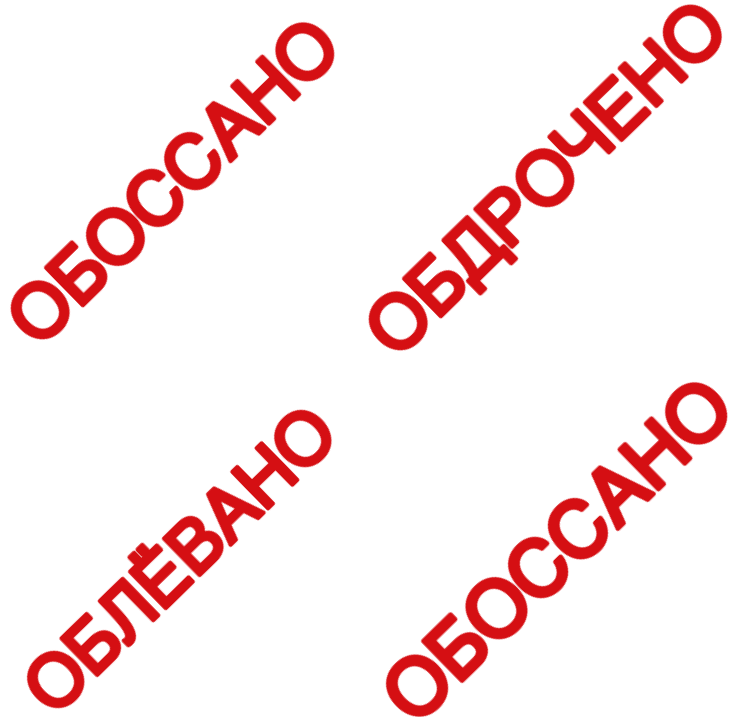
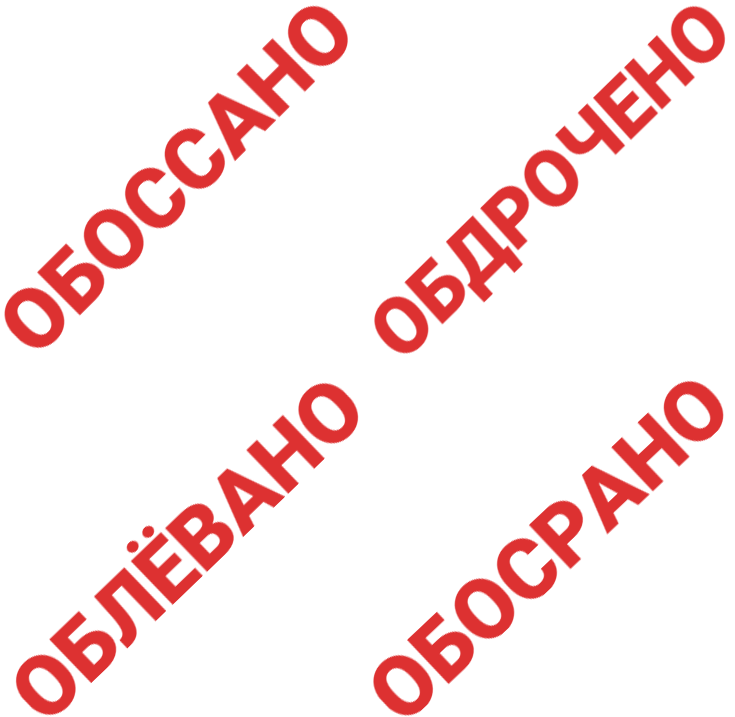
h j booru + h j m #23 fix + database fix Co-Authored-By: ugliestie <ugliestie@proton.me>

diff --git a/database/requests.py b/database/requests.py
@@ -20,7 +20,7 @@ async def check_group(group_id: int) -> None:
             session.add(AutomaticSettings(group_id=group_id))
             await session.commit()
 
-async def get_commands_settings(group_id: int) -> tuple[bool, bool, bool, bool, bool, bool]:
+async def get_commands_settings(group_id: int) -> tuple[bool, bool, bool, bool, bool, bool, bool]:
     """Получение списка включенных/выключенных и выключенных команд
 
     Args:
@@ -30,7 +30,7 @@ async def get_commands_settings(group_id: int) -> tuple[bool, bool, bool, bool, 
         GroupNotFound: группы нет в базе данных
 
     Returns:
-        tuple[bool, bool, bool, bool, bool, bool]: список включенных/выключенных команд по типам text, topor, demotivators, memes, polls, hm
+        tuple[bool, bool, bool, bool, bool, bool, bool]: список включенных/выключенных команд по типам text, topor, demotivators, memes, polls, hm, booru
     """
     async with async_session() as session:
         group = await session.scalar(select(CommandsSettings).where(CommandsSettings.group_id == str(group_id)))
@@ -38,7 +38,7 @@ async def get_commands_settings(group_id: int) -> tuple[bool, bool, bool, bool, 
         if group is None:
             raise GroupNotFound
         else:
-            return (group.text, group.topor, group.demotivators, group.memes, group.polls, group.hm)
+            return (group.text, group.topor, group.demotivators, group.memes, group.polls, group.hm, group.booru)
         
 async def get_automatic_settings(group_id: int) -> tuple[bool, bool, bool, bool, bool, bool, bool, bool]:
     """Получение списка включенных/выключенных автоматических генераций
@@ -119,6 +119,8 @@ async def set_setting(type_setting: str, kind_setting: str, setting: bool, group
                 group.animations = setting
             elif type(group) is CommandsSettings and kind_setting == "hm":
                 group.hm = setting
+            elif type(group) is CommandsSettings and kind_setting == "booru":
+                group.booru = setting
             await session.commit()
 
 async def update_lazyness(lazyness: int, group_id: int) -> None:

diff --git a/alembic/versions/7340ca170852_добавление_booru.py b/alembic/versions/7340ca170852_добавление_booru.py
@@ -1,0 +1,46 @@
+"""добавление_booru
+
+Revision ID: 7340ca170852
+Revises: c18e5c2c6b60
+Create Date: 2026-11-07 21:13:43.964586
+
+"""
+from typing import Sequence, Union
+
+from alembic import op
+import sqlalchemy as sa
+
+
+# revision identifiers, used by Alembic.
+revision: str = '7340ca170852'
+down_revision: Union[str, Sequence[str], None] = 'c18e5c2c6b60'
+branch_labels: Union[str, Sequence[str], None] = None
+depends_on: Union[str, Sequence[str], None] = None
+
+
+def upgrade() -> None:
+    """Upgrade schema."""
+    # ### commands auto generated by Alembic - please adjust! ###
+    with op.batch_alter_table('group_automatic_settings', schema=None) as batch_op:
+        batch_op.alter_column('group_id',
+               existing_type=sa.TEXT(),
+               nullable=False)
+
+    with op.batch_alter_table('group_commands_settings', schema=None) as batch_op:
+        batch_op.add_column(sa.Column('booru', sa.Boolean(), nullable=True, default=1, server_default="1"))
+
+    # ### end Alembic commands ###
+
+
+def downgrade() -> None:
+    """Downgrade schema."""
+    # ### commands auto generated by Alembic - please adjust! ###
+    with op.batch_alter_table('group_commands_settings', schema=None) as batch_op:
+        batch_op.drop_column('booru')
+
+    with op.batch_alter_table('group_automatic_settings', schema=None) as batch_op:
+        batch_op.alter_column('group_id',
+               existing_type=sa.TEXT(),
+               nullable=True)
+
+    # ### end Alembic commands ###

diff --git a/keyboards/settings.py b/keyboards/settings.py
@@ -51,7 +51,10 @@ def kb_settings_generate_types_commands(settings):
         ],
         [
             InlineKeyboardButton(text=f"Опросы | {marker(settings[4])}", callback_data='type_commands_polls'),
-            InlineKeyboardButton(text=f"Хм... | {marker(settings[5])}", callback_data='type_commands_hm')
+            InlineKeyboardButton(text=f"Хм... | {marker(settings[5])}", callback_data='type_commands_hm'),
+        ],
+        [
+            InlineKeyboardButton(text=f"Картинки с Safebooru | {marker(settings[6])}", callback_data='type_commands_booru')
         ],
         [InlineKeyboardButton(text="◀ Назад", callback_data='generate_types')]
     ]
@@ -78,7 +81,7 @@ def kb_settings_generate_types_automatic(settings):
     ]
     return InlineKeyboardMarkup(inline_keyboard=inline_kb_list)
 
-def kb_settings_ignore_words():
+def kb_ignore_words():
     inline_kb_list = [
         [InlineKeyboardButton(text="Добавить игнорируемые слова", callback_data='ignore_words_add')],
         [InlineKeyboardButton(text="Очистить игнорируемые слова", callback_data='ignore_words_delete')],

diff --git a/handlers/settings.py b/handlers/settings.py
@@ -84,6 +84,8 @@ async def process_callback_generate_types(callback: CallbackQuery):
 					await set_setting("commands", "polls", not(setting[4]), callback.message.chat.id)
 				elif callback.data == "type_commands_hm":
 					await set_setting("commands", "hm", not(setting[5]), callback.message.chat.id)
+				elif callback.data == "type_commands_booru":
+					await set_setting("commands", "booru", not(setting[6]), callback.message.chat.id)
 				await callback.message.edit_text(
 						text="⚙ Настройки типов контента, который присылает бот с помощью команд",
 						reply_markup=kb_settings_generate_types_commands(await get_commands_settings(callback.message.chat.id))

diff --git a/utils/images.py b/utils/images.py
@@ -75,7 +75,7 @@ async def generate_meme(chat_id: int, bot: Bot) -> bytes:  # ty: ignore[invalid-
 	Returns:
 		bytes: готовый мем
 	"""
-	select = random.randint(1, 23)
+	select = random.randint(22, 23)
 
 	if select == 1:
 		img = Image.open("./utils/resources/templates/1.jpg")

diff --git a/database/models.py b/database/models.py
@@ -25,6 +25,8 @@ class CommandsSettings(Base):
     memes = mapped_column(Boolean, default=True)
     polls = mapped_column(Boolean, default=True)
     hm = mapped_column(Boolean, default=True)
+    booru = mapped_column(Boolean, default=True)
+
 
 
 class AutomaticSettings(Base):
